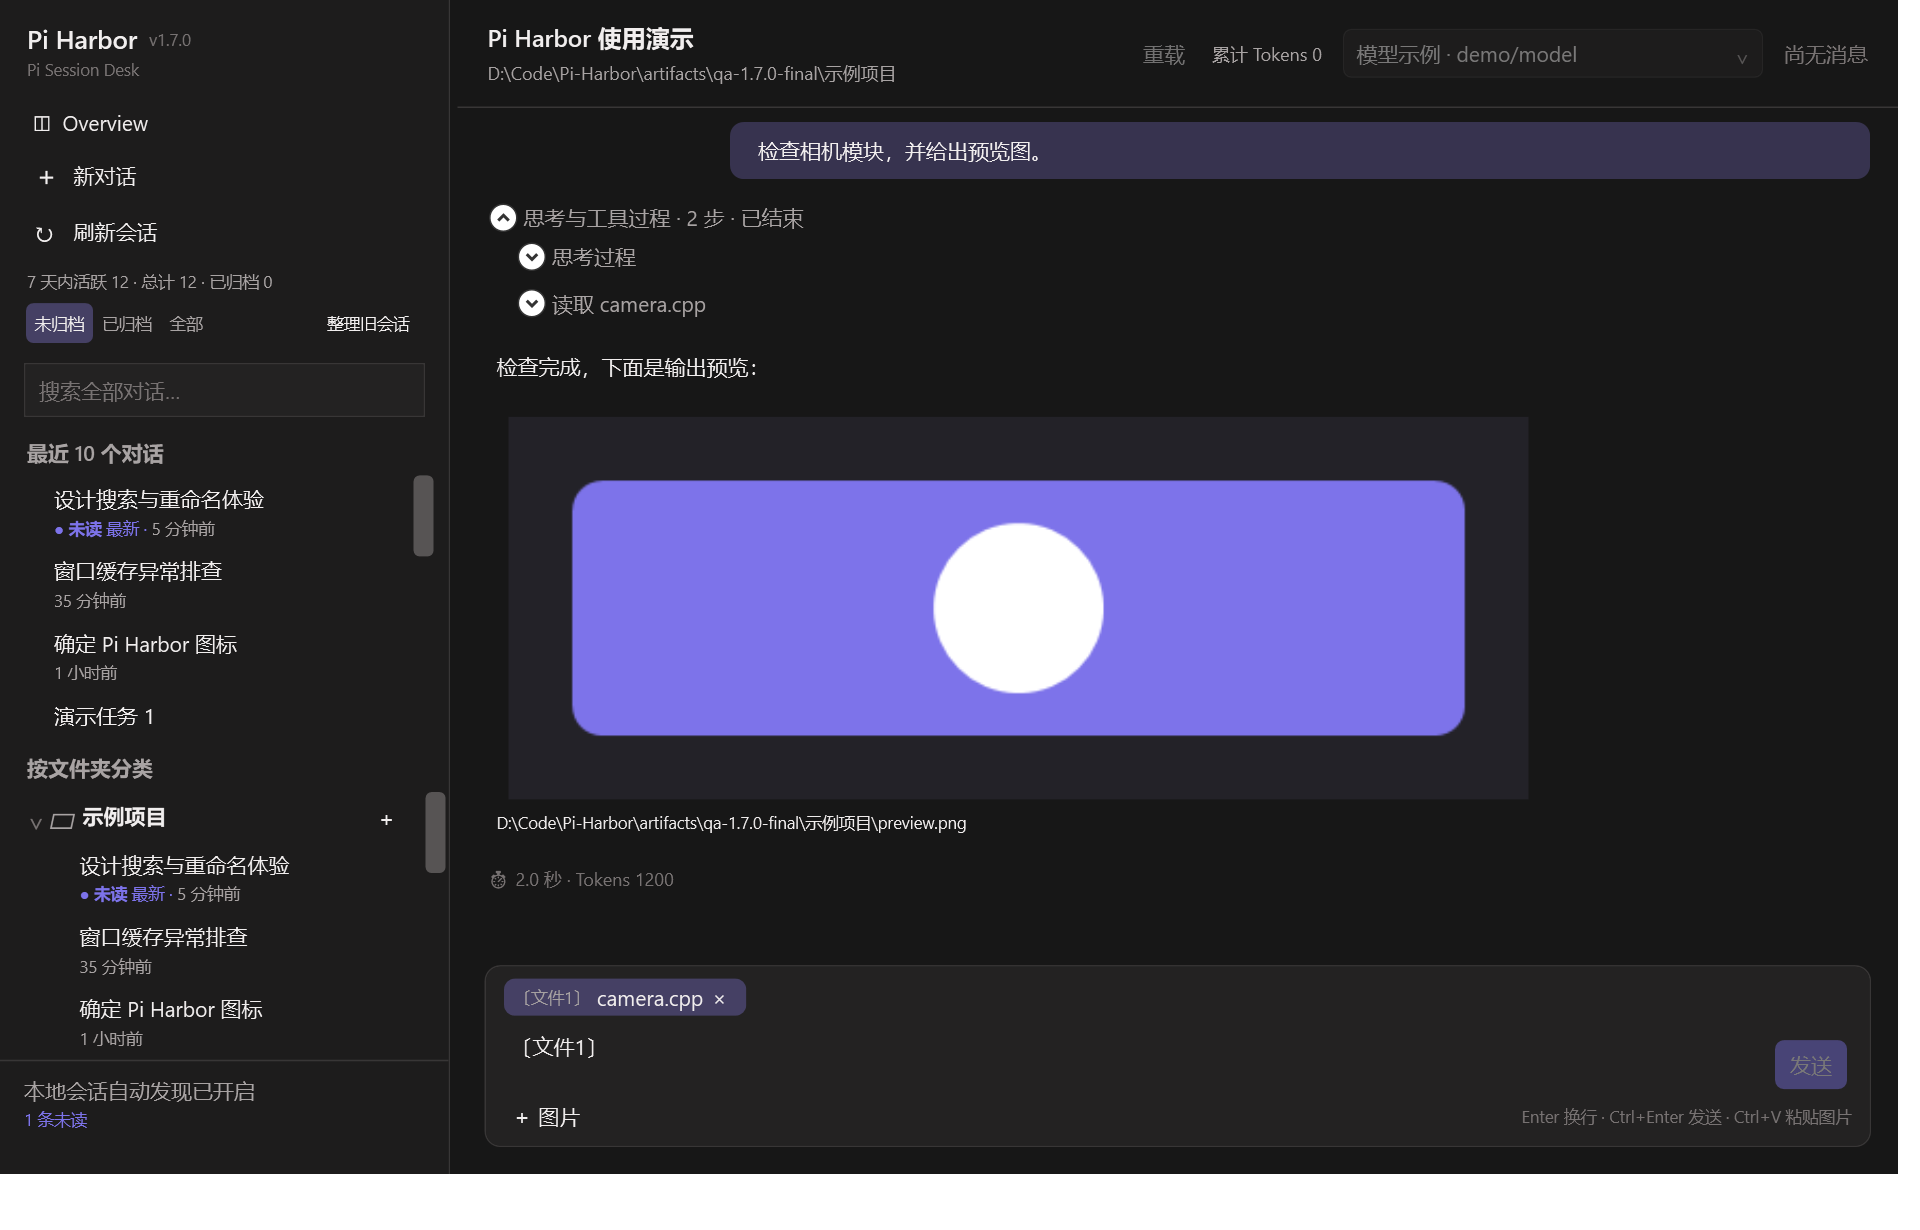
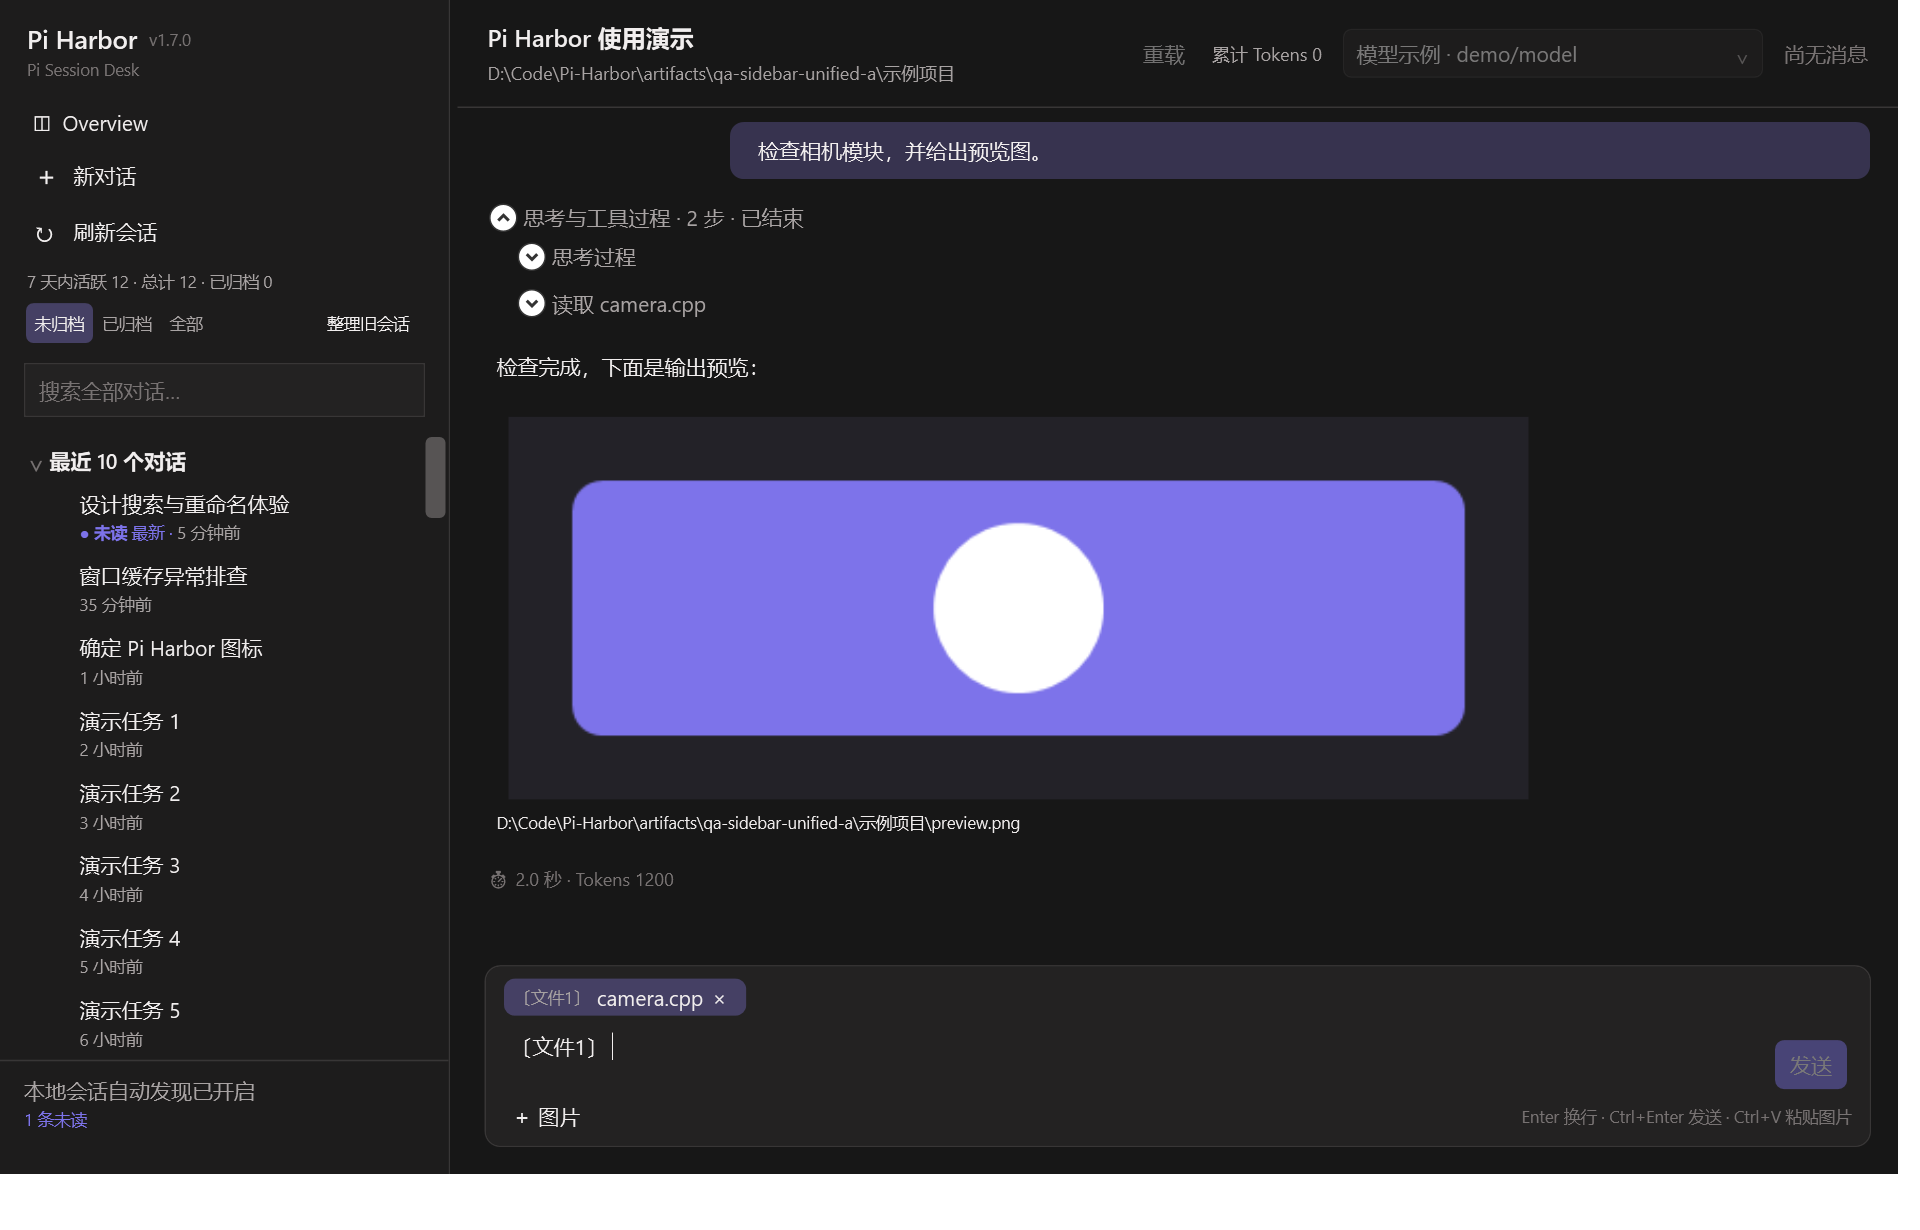
合并侧栏滚动区域并支持最近对话折叠

diff --git a/src/PIHarness.App/MainWindow.xaml b/src/PIHarness.App/MainWindow.xaml
@@ -190,6 +190,11 @@
             </Border>
         </DataTemplate>
 
+        <HierarchicalDataTemplate DataType="{x:Type vm:RecentSessionsGroupViewModel}" ItemsSource="{Binding Sessions}">
+            <TextBlock Text="最近 10 个对话" Margin="0,5,0,3" FontWeight="SemiBold"
+                       Foreground="{StaticResource PrimaryTextBrush}" ToolTip="点击展开或收起最近对话" />
+        </HierarchicalDataTemplate>
+
         <HierarchicalDataTemplate DataType="{x:Type vm:ProjectGroupViewModel}" ItemsSource="{Binding Sessions}">
             <Grid ToolTip="{Binding Cwd}" Margin="0,5,0,3">
                 <Grid.ContextMenu>
@@ -456,23 +461,7 @@
                 <Grid>
                 <Grid x:Name="SidebarListsGrid">
                     <Grid.Style><Style TargetType="Grid"><Style.Triggers><DataTrigger Binding="{Binding IsSearchActive}" Value="True"><Setter Property="Visibility" Value="Collapsed" /></DataTrigger></Style.Triggers></Style></Grid.Style>
-                    <Grid.RowDefinitions><RowDefinition Height="*" MaxHeight="270" /><RowDefinition Height="*" /></Grid.RowDefinitions>
-                    <DockPanel Margin="8,0,8,8">
-                        <TextBlock DockPanel.Dock="Top" Text="最近 10 个对话" Margin="10,2,0,5" FontWeight="SemiBold" Foreground="{StaticResource SecondaryTextBrush}" />
-                        <TreeView x:Name="RecentSessionTree" ItemsSource="{Binding SidebarRecentSessions}"
-                                  MaxHeight="230" SelectedItemChanged="OnSessionSelected"
-                                  PreviewMouseLeftButtonDown="OnTreeItemPreviewMouseLeftButtonDown"
-                                  IsHitTestVisible="{Binding CanSwitchSession}"
-                                  Background="Transparent" BorderThickness="0"
-                                  Foreground="{StaticResource PrimaryTextBrush}"
-                                  ScrollViewer.HorizontalScrollBarVisibility="Disabled"
-                                  VirtualizingStackPanel.IsVirtualizing="True"
-                                  VirtualizingStackPanel.VirtualizationMode="Recycling"
-                                  AutomationProperties.Name="最近 10 个对话" />
-                    </DockPanel>
-                    <DockPanel Grid.Row="1">
-                        <TextBlock DockPanel.Dock="Top" Text="按文件夹分类" Margin="18,4,0,6" FontWeight="SemiBold" Foreground="{StaticResource SecondaryTextBrush}" />
-                <TreeView x:Name="SessionTree" ItemsSource="{Binding Projects}"
+                <TreeView x:Name="SessionTree" ItemsSource="{Binding SidebarGroups}"
                           IsHitTestVisible="{Binding CanSwitchSession}"
                           SelectedItemChanged="OnSessionSelected"
                           PreviewMouseLeftButtonDown="OnTreeItemPreviewMouseLeftButtonDown"
@@ -483,7 +472,6 @@
                           VirtualizingStackPanel.VirtualizationMode="Recycling">
                     <TreeView.Style><Style TargetType="TreeView"><Style.Triggers><DataTrigger Binding="{Binding IsSearchActive}" Value="True"><Setter Property="Visibility" Value="Collapsed" /></DataTrigger></Style.Triggers></Style></TreeView.Style>
                 </TreeView>
-                </DockPanel>
                 </Grid>
                 <ListBox x:Name="GlobalSearchResults" ItemsSource="{Binding SearchResults}" SelectionChanged="OnSearchResultSelected"
                          IsHitTestVisible="{Binding CanSwitchSession}" Background="Transparent" BorderThickness="0" Padding="10,0,10,8"

diff --git a/src/PIHarness.App/MainWindow.ProductQa.cs b/src/PIHarness.App/MainWindow.ProductQa.cs
@@ -18,10 +18,11 @@ public partial class MainWindow
         await SettleStyleLayoutAsync();
         check(OverviewPanel.IsVisible && _viewModel.UsageDays.Count == 28 && _viewModel.UsageDays.Any(day => day.Usage.Tokens > 0), "Overview 展示全部本机会话的 28 天用量");
         check(_viewModel.RecentSessions.Count == 3, "首页最近会话包含外部写入的独立测试会话");
-        check(RecentSessionTree.IsVisible && RecentSessionTree.Items.Count == 3 &&
-              RecentSessionTree.TranslatePoint(new Point(), this).Y < SessionTree.TranslatePoint(new Point(), this).Y,
-              "最近对话快捷区位于文件夹分类上方");
-        var recentLabel = FindSearchQaLabels(RecentSessionTree).First(label => label.Text == _viewModel.SidebarRecentSessions[0].Title);
+        var recentGroup = SessionTree.ItemContainerGenerator.ContainerFromItem(_viewModel.RecentSessionGroup) as TreeViewItem;
+        check(recentGroup is { IsExpanded: true } && recentGroup.Items.Count == 3 &&
+              ReferenceEquals(SessionTree.Items[0], _viewModel.RecentSessionGroup),
+              "最近对话作为统一列表的首个可折叠分组");
+        var recentLabel = FindSearchQaLabels(recentGroup!).First(label => label.Text == _viewModel.SidebarRecentSessions[0].Title);
         check(FindContextMenuAncestor(recentLabel)?.ToolTip is string tip && tip.Contains("距上次对话：") && tip.Contains("分钟前"),
               "最近对话悬停包含距上次交流的时间差");
         CaptureWindow(Path.Combine(directory, "overview.png"));
@@ -89,15 +90,47 @@ public partial class MainWindow
         }
         await _viewModel.RefreshCatalogAsync();
         await SettleStyleLayoutAsync();
-        check(RecentSessionTree.Items.Count == 10 && _viewModel.Projects.Sum(project => project.Sessions.Count) == 12,
+        check(_viewModel.SidebarRecentSessions.Count == 10 && _viewModel.Projects.Sum(project => project.Sessions.Count) == 12,
               "最近区只显示十条，文件夹保留全部十二条");
         CaptureWindow(Path.Combine(directory, "recent-ten.png"));
         var originalHeight = Height;
         Height = MinHeight;
         await SettleStyleLayoutAsync();
-        check(RecentSessionTree.ActualHeight > 40 && SessionTree.ActualHeight > 40,
-              "最小窗口高度仍可浏览最近区和文件夹区");
+        var treeScroll = FindVisualChild<ScrollViewer>(SessionTree)!;
+        check(CountSidebarScrollViewers(SessionTree) == 1 &&
+              !FindSearchQaLabels(SidebarListsGrid).Any(label => label.Text == "按文件夹分类"),
+              "侧栏只有一条滚动通道且无多余分类标题");
+        treeScroll.ScrollToEnd();
+        await SettleStyleLayoutAsync();
+        check(treeScroll.VerticalOffset > 0 && FindSearchQaLabels(SessionTree).Any(label => label.Text == "演示任务 9"),
+              "最小窗口共用滚动条仍能到达末尾文件夹会话");
+        treeScroll.ScrollToTop();
+        await SettleStyleLayoutAsync();
+        recentGroup = (TreeViewItem)SessionTree.ItemContainerGenerator.ContainerFromItem(_viewModel.RecentSessionGroup);
+        ToggleProjectItem(recentGroup);
+        await SettleStyleLayoutAsync();
+        var projectGroup = (TreeViewItem)SessionTree.ItemContainerGenerator.ContainerFromItem(_viewModel.Projects[0]);
+        check(!_viewModel.RecentSessionGroup.IsExpanded &&
+              projectGroup.TranslatePoint(new Point(), SessionTree).Y < 70 &&
+              SessionTree.ActualHeight > 150,
+              "折叠最近对话立即让出空间给文件夹，最小窗口不切成两块");
         CaptureWindow(Path.Combine(directory, "recent-compact.png"));
+        _viewModel.SessionFilter = 2;
+        await _viewModel.RefreshCatalogAsync();
+        await SettleStyleLayoutAsync();
+        recentGroup = (TreeViewItem)SessionTree.ItemContainerGenerator.ContainerFromItem(_viewModel.RecentSessionGroup);
+        check(!recentGroup.IsExpanded, "刷新和筛选后保留最近分组的折叠状态");
+        ToggleProjectItem(recentGroup);
+        await SettleStyleLayoutAsync();
+        check(_viewModel.RecentSessionGroup.IsExpanded && recentGroup.Items.Count == 10, "最近分组可再次展开全部十条");
         Height = originalHeight;
+    }
+
+    private static int CountSidebarScrollViewers(DependencyObject parent)
+    {
+        var count = parent is ScrollViewer ? 1 : 0;
+        for (var i = 0; i < VisualTreeHelper.GetChildrenCount(parent); i++)
+            count += CountSidebarScrollViewers(VisualTreeHelper.GetChild(parent, i));
+        return count;
     }
 }

diff --git a/src/PIHarness.App/ViewModels/MainViewModel.cs b/src/PIHarness.App/ViewModels/MainViewModel.cs
@@ -69,7 +69,9 @@ public sealed partial class MainViewModel : ObservableObject, IAsyncDisposable
     public event Action<ConversationViewModel, string>? ConversationAttention;
 
     public ObservableCollection<ProjectGroupViewModel> Projects { get; } = [];
-    public ObservableCollection<SessionItemViewModel> SidebarRecentSessions { get; } = [];
+    public RecentSessionsGroupViewModel RecentSessionGroup { get; } = new();
+    public ObservableCollection<SessionItemViewModel> SidebarRecentSessions => RecentSessionGroup.Sessions;
+    public ObservableCollection<object> SidebarGroups { get; } = [];
 
     public AsyncRelayCommand RefreshCommand { get; }
     public AsyncRelayCommand SendCommand => Active.SendCommand;
@@ -520,6 +522,13 @@ public sealed partial class MainViewModel : ObservableObject, IAsyncDisposable
         Path.Combine(Environment.GetFolderPath(Environment.SpecialFolder.UserProfile), ".pi", "agent", "sessions");
 
     private void ThrowIfDisposed() => ObjectDisposedException.ThrowIf(_disposed, this);
+}
+
+public sealed class RecentSessionsGroupViewModel : ObservableObject
+{
+    private bool _isExpanded = true;
+    public bool IsExpanded { get => _isExpanded; set => SetProperty(ref _isExpanded, value); }
+    public ObservableCollection<SessionItemViewModel> Sessions { get; } = [];
 }
 
 public sealed class ProjectGroupViewModel : ObservableObject

diff --git a/tests/PIHarness.Tests/RecentSidebarTests.cs b/tests/PIHarness.Tests/RecentSidebarTests.cs
@@ -23,6 +23,9 @@ internal static class RecentSidebarTests
         await vm.InitializeAsync();
         AssertEx.Equal(12, vm.TotalSessionCount, "最近区不限制本机索引");
         AssertEx.Equal(10, vm.SidebarRecentSessions.Count, "最多十条");
+        AssertEx.True(ReferenceEquals(vm.RecentSessionGroup, vm.SidebarGroups[0]), "最近分组在同一列表顶部");
+        AssertEx.Equal(3, vm.SidebarGroups.Count, "最近分组与两个文件夹处于同一级");
+        vm.RecentSessionGroup.IsExpanded = false;
         AssertEx.Equal("对话 0", vm.SidebarRecentSessions[0].Title, "跨文件夹倒序");
         AssertEx.Equal("对话 9", vm.SidebarRecentSessions[9].Title, "最旧两条不进快捷区");
         var first = vm.SidebarRecentSessions[0];
@@ -42,5 +45,6 @@ internal static class RecentSidebarTests
             JsonSerializer.Serialize(new { type = "message", id = "a", timestamp = now, message = new { role = "assistant", content = "最新结果" } }) + "\n");
         await vm.RefreshCatalogAsync();
         AssertEx.Equal("对话 11", vm.SidebarRecentSessions[0].Title, "终端追加后重新排序");
+        AssertEx.False(vm.RecentSessionGroup.IsExpanded, "刷新、归档和筛选不重置用户折叠选择");
     }
 }

diff --git a/src/PIHarness.App/MainWindow.StyleQa.cs b/src/PIHarness.App/MainWindow.StyleQa.cs
@@ -52,7 +52,9 @@ public partial class MainWindow
         ModelSelector.IsDropDownOpen = false;
 
         SessionTree.UpdateLayout();
-        var projectItem = SessionTree.ItemContainerGenerator.ContainerFromIndex(0) as TreeViewItem;
+        _viewModel.RecentSessionGroup.IsExpanded = false;
+        SessionTree.UpdateLayout();
+        var projectItem = SessionTree.ItemContainerGenerator.ContainerFromItem(_viewModel.Projects.FirstOrDefault()) as TreeViewItem;
         var bProjectReady = projectItem is not null;
         if (projectItem is not null)
         {
@@ -90,8 +92,7 @@ public partial class MainWindow
         if (currentSession is not null)
         {
             var currentProject = _viewModel.Projects.Single(project => project.Sessions.Contains(currentSession));
-            var nProjectIndex = _viewModel.Projects.IndexOf(currentProject);
-            var currentProjectItem = SessionTree.ItemContainerGenerator.ContainerFromIndex(nProjectIndex) as TreeViewItem;
+            var currentProjectItem = SessionTree.ItemContainerGenerator.ContainerFromItem(currentProject) as TreeViewItem;
             if (currentProjectItem is not null)
             {
                 currentProjectItem.IsExpanded = true;

diff --git a/src/PIHarness.App/MainWindow.Search.cs b/src/PIHarness.App/MainWindow.Search.cs
@@ -20,7 +20,6 @@ public partial class MainWindow
         else if (args.Key == Key.F2 && Keyboard.Modifiers == ModifierKeys.None)
         {
             var session = SessionTree.IsKeyboardFocusWithin ? (SessionTree.SelectedItem as SessionItemViewModel)?.Session
-                : RecentSessionTree.IsKeyboardFocusWithin ? (RecentSessionTree.SelectedItem as SessionItemViewModel)?.Session
                 : GlobalSearchResults.IsKeyboardFocusWithin ? (GlobalSearchResults.SelectedItem as SessionSearchItemViewModel)?.Session : null;
             if (session is not null) { args.Handled = true; await RenameSessionAsync(session); }
         }

diff --git a/src/PIHarness.App/ViewModels/MainViewModel.Management.cs b/src/PIHarness.App/ViewModels/MainViewModel.Management.cs
@@ -157,6 +157,9 @@ public sealed partial class MainViewModel
                      .OrderByDescending(session => session.LastActivityAt)
                      .ThenBy(session => session.SessionPath, StringComparer.OrdinalIgnoreCase).Take(10))
             SidebarRecentSessions.Add(session);
+        SidebarGroups.Clear();
+        SidebarGroups.Add(RecentSessionGroup);
+        foreach (var project in Projects) SidebarGroups.Add(project);
         OnPropertyChanged(nameof(TotalSessionCount));
         OnPropertyChanged(nameof(ActiveSessionCount));
         OnPropertyChanged(nameof(ArchivedSessionCount));

diff --git a/src/PIHarness.App/MainWindow.xaml.cs b/src/PIHarness.App/MainWindow.xaml.cs
@@ -243,7 +243,7 @@ public partial class MainWindow : Window
             _viewModel.IsOverviewVisible = false;
             _viewModel.MarkActiveRead();
         }
-        if (item?.Header is ProjectGroupViewModel)
+        if (item?.Header is ProjectGroupViewModel or RecentSessionsGroupViewModel)
         {
             ToggleProjectItem(item);
             args.Handled = true;

diff --git a/README.md b/README.md
@@ -11,6 +11,8 @@
 
 ### 1.7.0 更新（2026-09-29）
 
+**当前源码补充（2026-09-30，尚未发布）：** 最近 10 个对话已改成可折叠分组，与下面的文件夹共用一条滚动条，移除“按文件夹分类”标题及固定分区高度。点击分组标题即可收起／展开，自动刷新和归档筛选保留本次运行内的折叠选择。
+
 左侧新增「最近 10 个对话」，位于文件夹分类之前，跨文件夹按最后交流时间倒序排列。悬停显示距上次对话的时间差、完整时间与项目目录，每分钟刷新；跟随未归档／已归档／全部筛选，支持原有右键操作。这个限制仅作用于快捷区，文件夹分类和全局搜索仍覆盖全部本机会话。
 
 本版本同时发布此前完成的以下改进。仍然自动检索本机 Pi 会话并按真实目录分组，终端创建的会话同样进入列表、搜索和统计。
@@ -32,9 +34,13 @@
 
 ## 软件截图
 
-最近 10 个对话快捷区位于文件夹分类上方（独立演示数据）：
+最近 10 个对话以可折叠分组置顶，与文件夹使用同一条滚动条（当前源码、独立演示数据）：
 
 ![最近对话与完整文件夹列表](docs/images/recent-sessions.png)
+
+收起最近对话后，文件夹直接上移，小窗口也能利用整个侧栏：
+
+![折叠最近对话后的小窗口布局](docs/images/recent-sessions-collapsed.png)
 
 以下为实际 WPF 应用截图。真实项目名称与会话标题在截图前使用不透明马赛克遮挡，右侧是演示内容；活动时间、布局和交互样式保持真实。
 

diff --git a/CHANGELOG.md b/CHANGELOG.md
@@ -1,5 +1,11 @@
 # 更新记录
 
+## 未发布 — 2026-09-30
+
+- 最近 10 个对话改为可折叠分组，与文件夹共用一棵列表和一条滚动条；移除重复分类标题和固定区域高度。
+- 刷新与归档筛选保留最近分组折叠状态；补充小窗口下的滚动、空间释放与再次展开验收。
+- 仓库指南增加每项功能的产品体验复核要求。
+
 ## 1.7.0 — 2026-09-29
 
 - 左侧增加最近 10 个对话快捷区，置于文件夹分类之前，跨项目按最近交流时间排序，并跟随归档筛选。
